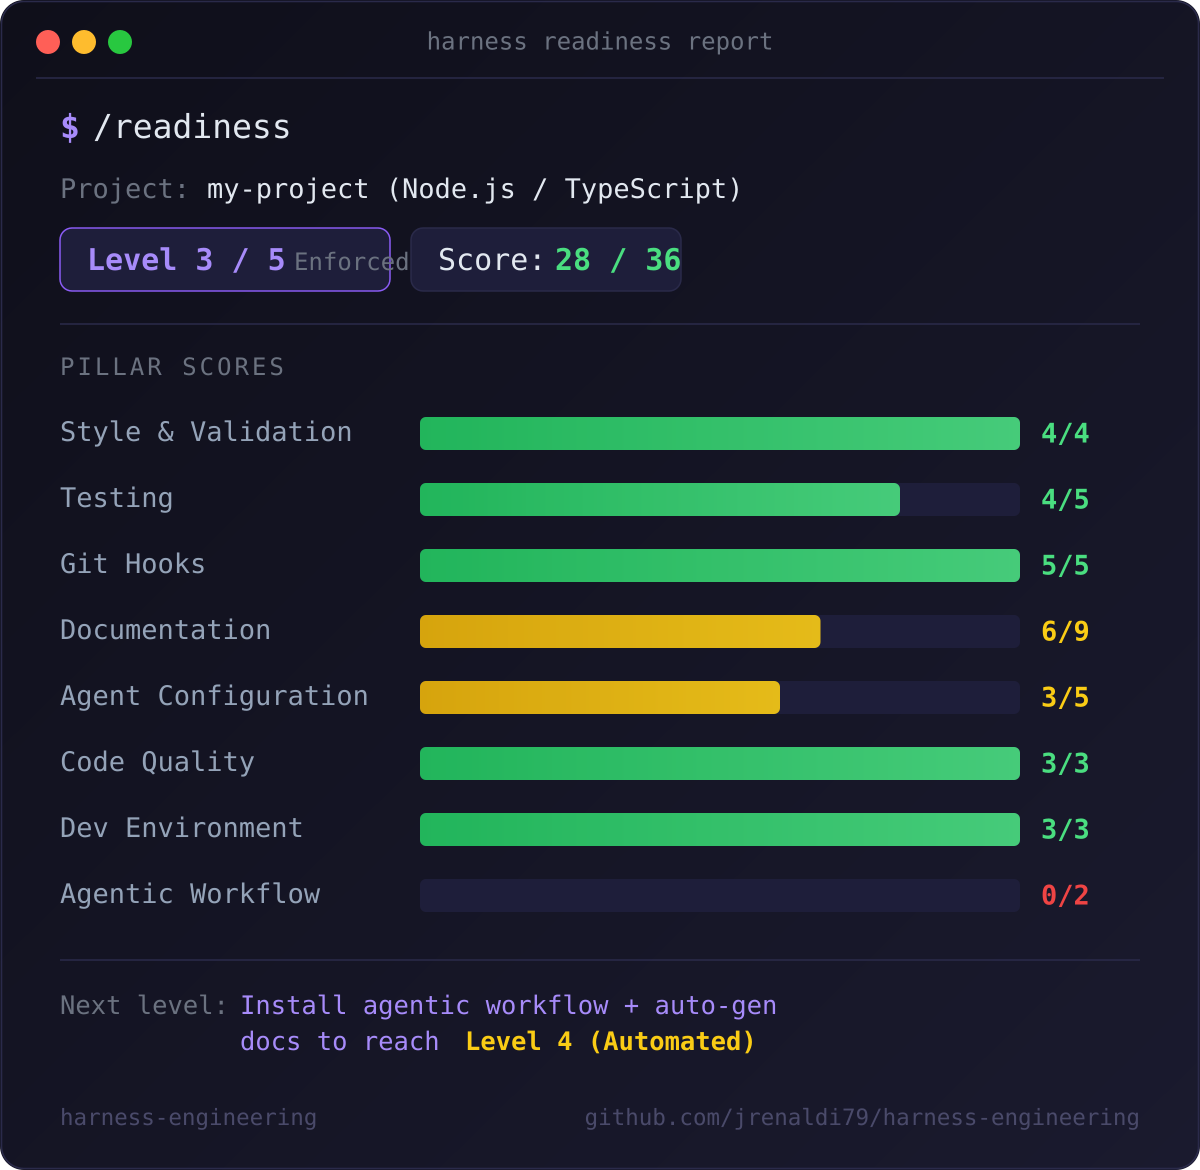
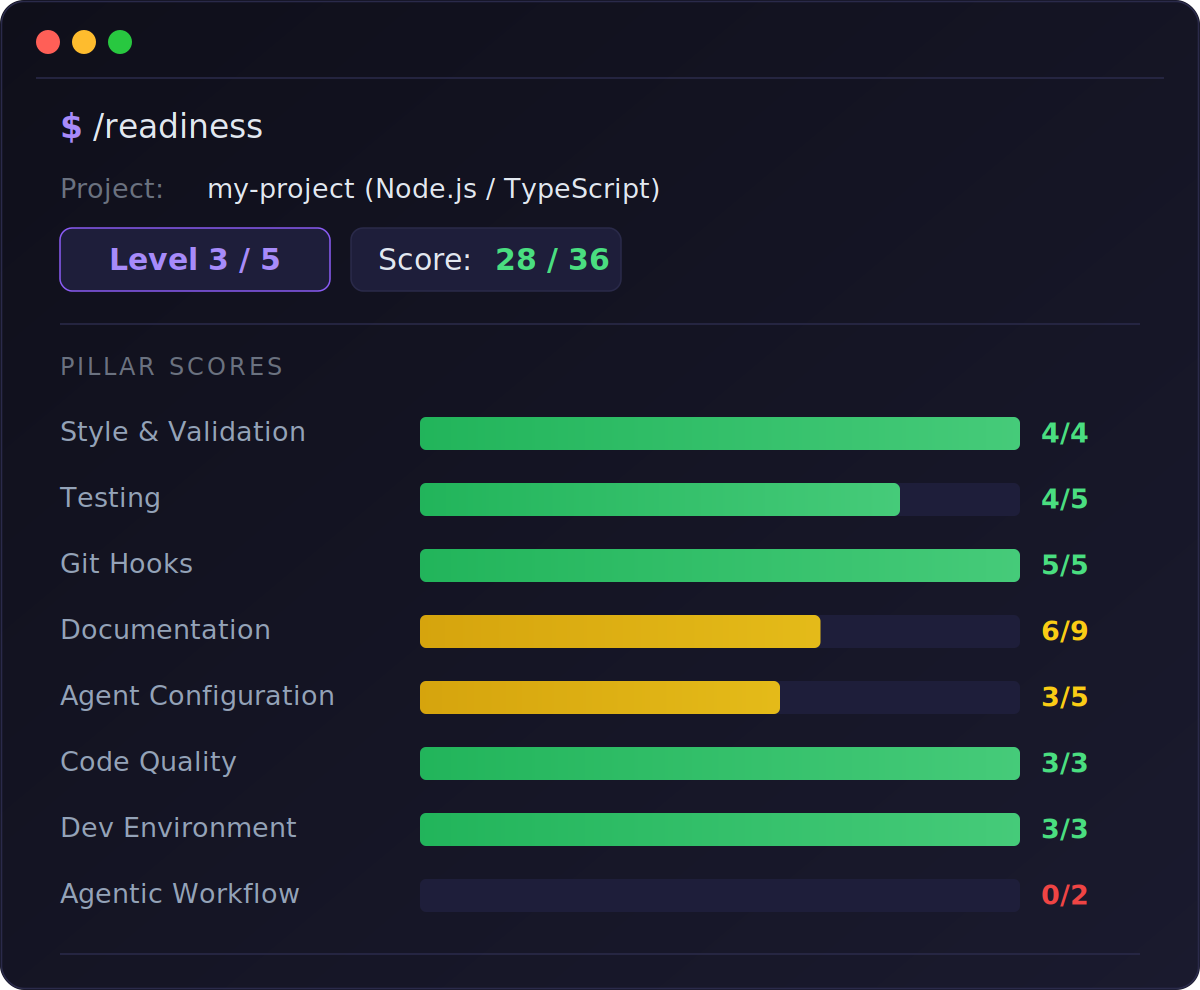
Fix image formatting and add marketplace.json (#4)
* fix: clean up readiness report card image formatting

Remove small text that doesn't add to the story: title bar text,
"Enforced" label, "Next level" hint, and bottom branding/URL footer.
Tighten Level badge layout and reduce canvas height.

https://claude.ai/code/session_01Jn5YD2Cc3rLwQ2LW98nJ6a

* feat: add marketplace.json and update plugin install instructions

Add .claude-plugin/marketplace.json so the repo can be installed via
`/plugin marketplace add`. Update README Quick Start and troubleshooting
to use the new two-step marketplace install flow.

https://claude.ai/code/session_01Jn5YD2Cc3rLwQ2LW98nJ6a

---------

diff --git a/README.md b/README.md
@@ -262,7 +262,8 @@ After the report, the skill offers to apply surgical fixes — editing existing 
 In Claude Code, run:
 
 ```
-/plugin install jrenaldi79/harness-engineering
+/plugin marketplace add jrenaldi79/harness-engineering
+/plugin install harness-engineering@harness-engineering
 ```
 
 That's it. Once installed, you don't need to remember any commands — just ask naturally:
@@ -325,7 +326,7 @@ The pre-commit hook runs automatically. If everything passes, your harness is ac
 |---|---|
 | `/plugin install` not recognized | Make sure you're using [Claude Code](https://docs.anthropic.com/en/docs/claude-code) (the CLI), not the web chat. Plugin support requires Claude Code. |
 | Skills don't trigger after install | Restart your Claude Code session. Skills load on session start. |
-| `/readiness` can't find setup references | Both skills are part of the same plugin — reinstall with `/plugin install jrenaldi79/harness-engineering`. |
+| `/readiness` can't find setup references | Both skills are part of the same plugin — reinstall with `/plugin marketplace add jrenaldi79/harness-engineering` then `/plugin install harness-engineering@harness-engineering`. |
 
 ---
 
